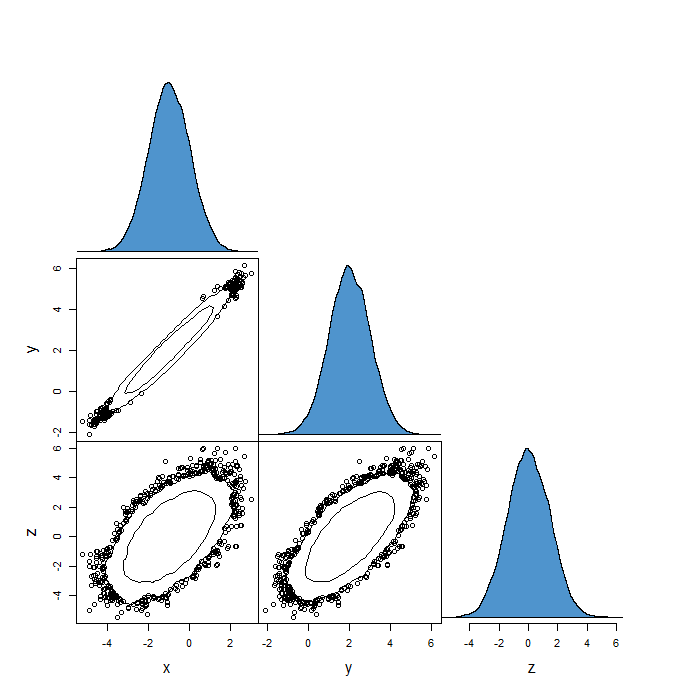
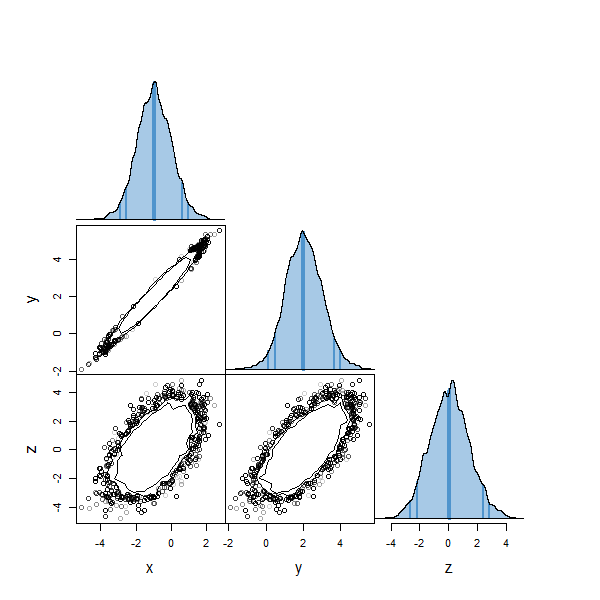
added better 1dlines, and median marker, to diagonals on matrix plot. updated defaults.

diff --git a/README.md b/README.md
@@ -127,6 +127,7 @@ Getting well-behaved MCMC output can be tricky. If the chains are not well-mixed
 * use more walkers or chains (GW method: nwalkers; MH method: nchains).
 * adjust the details of the update move in the GW method (parameters: walk.rate, atune, stune).
 * let the chains run for longer (nsteps).
+
 ## Help
 
 For more help on each function, try the in-built help, e.g.
@@ -152,4 +153,4 @@ which tonic was developed:
 
 [S. Vaughan et al., 2016, MNRAS, v461, pp3145-3152](http://adsabs.harvard.edu/abs/2016MNRAS.461.3145V)
 
-The contour_matrix() function is a development of the code used to produce Fig. 2 of [Vaughan 2010, MNRAS, v402, pp307-320](http://adsabs.harvard.edu/abs/2010MNRAS.402..307V), and is based on the pairs() plots of base R.
+The contour_matrix() and mh_sampler() functions are a development of the code used to produce Fig. 2 of [S. Vaughan (2010, MNRAS, v402, pp307-320)](http://adsabs.harvard.edu/abs/2010MNRAS.402..307V); the former is based on the pairs() plots of base R.
